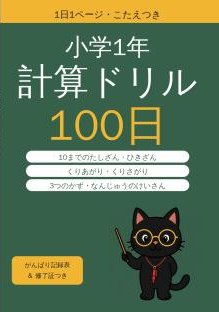
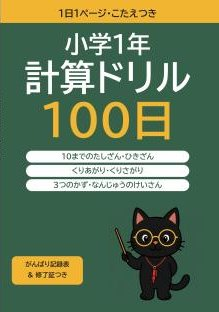
本の表紙をUDフォント版に差しかえ
Claude-Session: https://claude.ai/code/session_01VCmPc2LP21pHJ4inuy1VYo

Changed region(s): [[0.0822, 0.0288, 0.9041, 0.6058], [0.1096, 0.8365, 0.3288, 0.8942]]

diff --git a/index.html b/index.html
@@ -327,7 +327,7 @@ footer p { margin: 0 0 4px; }
         <div class="item">
           <div class="art book"><img src="assets/books/ai-shijibun-57.jpg" alt="中学校の先生のための AI指示文57 の表紙" width="84" height="134" loading="lazy"></div>
           <div class="body">
-            <div class="tags"><span class="tag new">近日発売</span><span class="tag">Kindle・紙の本</span><span class="tag">先生向け</span></div>
+            <div class="tags"><span class="tag new">近日発売</span><span class="tag">Kindle</span><span class="tag">先生向け</span></div>
             <h3>中学校の先生のための AI指示文57</h3>
             <p>所見12本、学級通信8本、保護者対応8本、授業準備10本など、コピーしてそのまま使える指示文を57本。すべて生徒の名前を入れずに使える形です。Kindle Unlimitedでも読めます。</p>
           </div>
